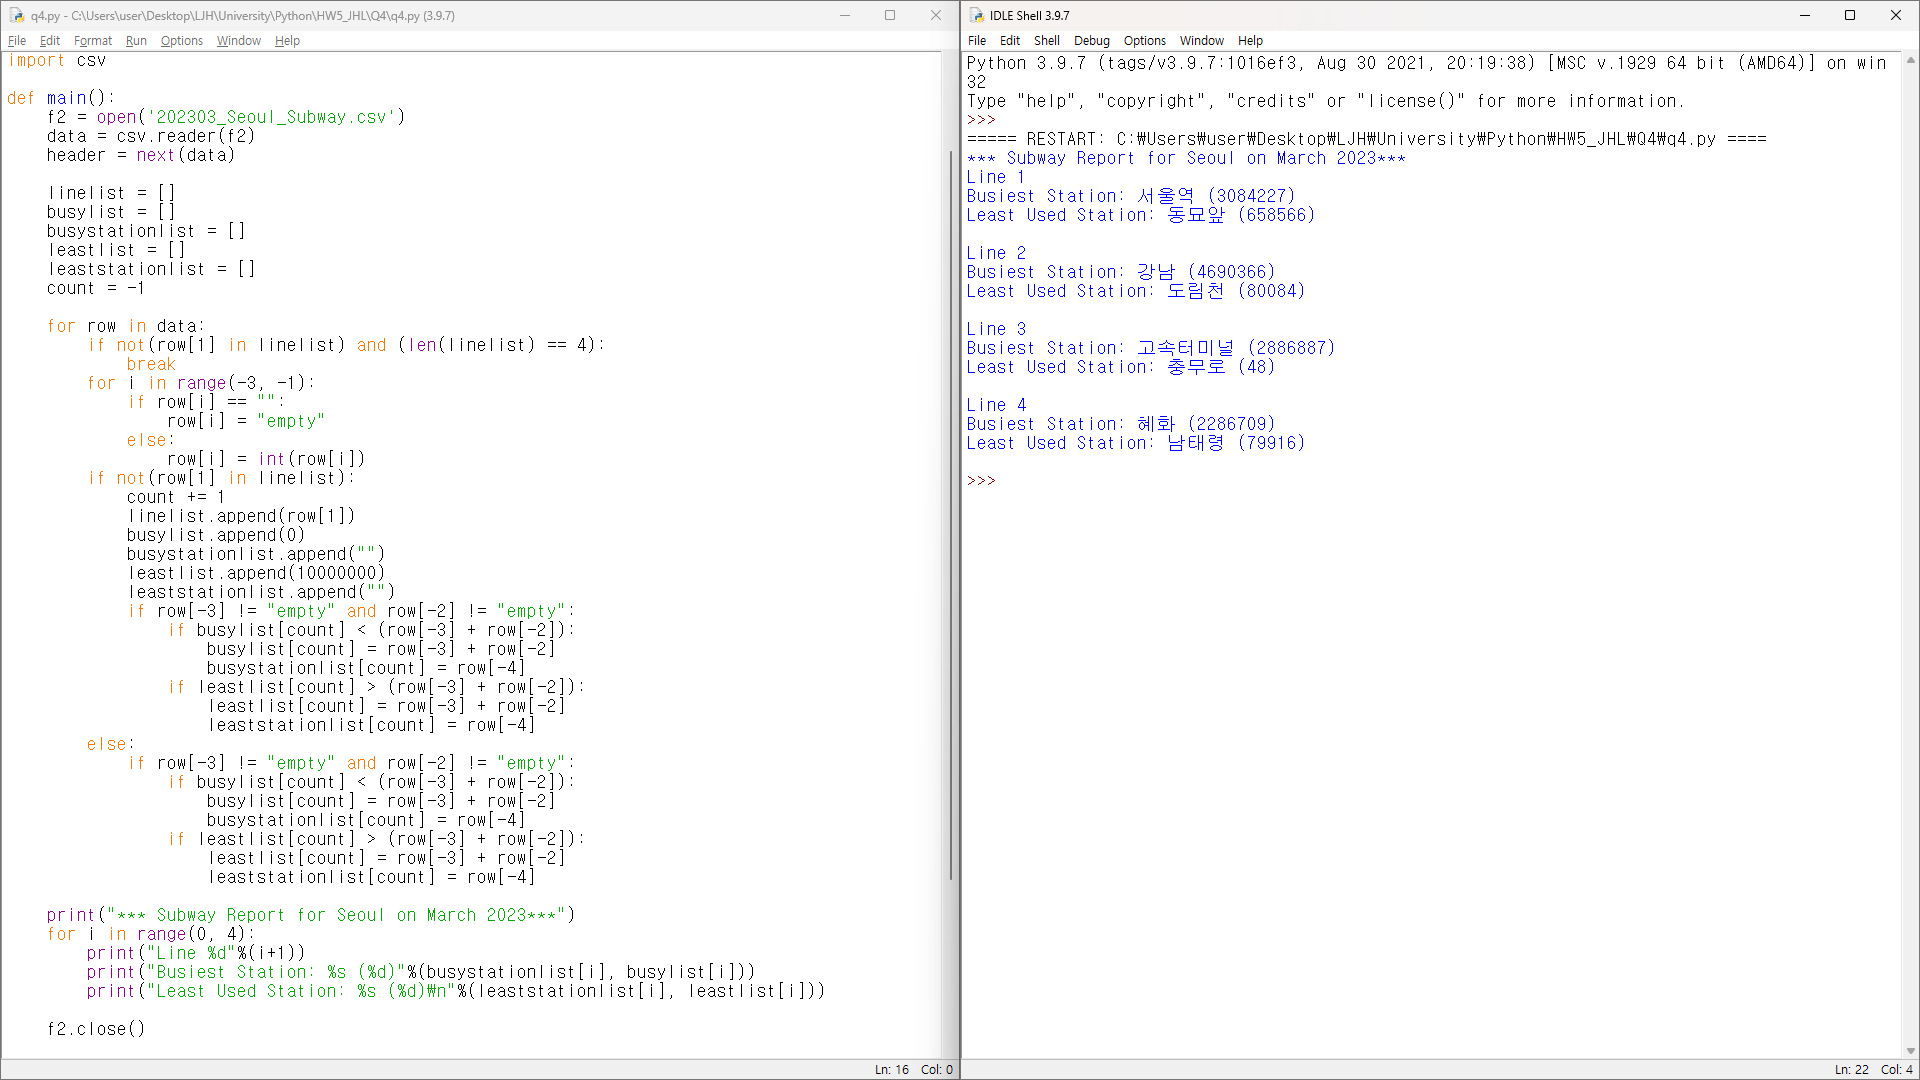
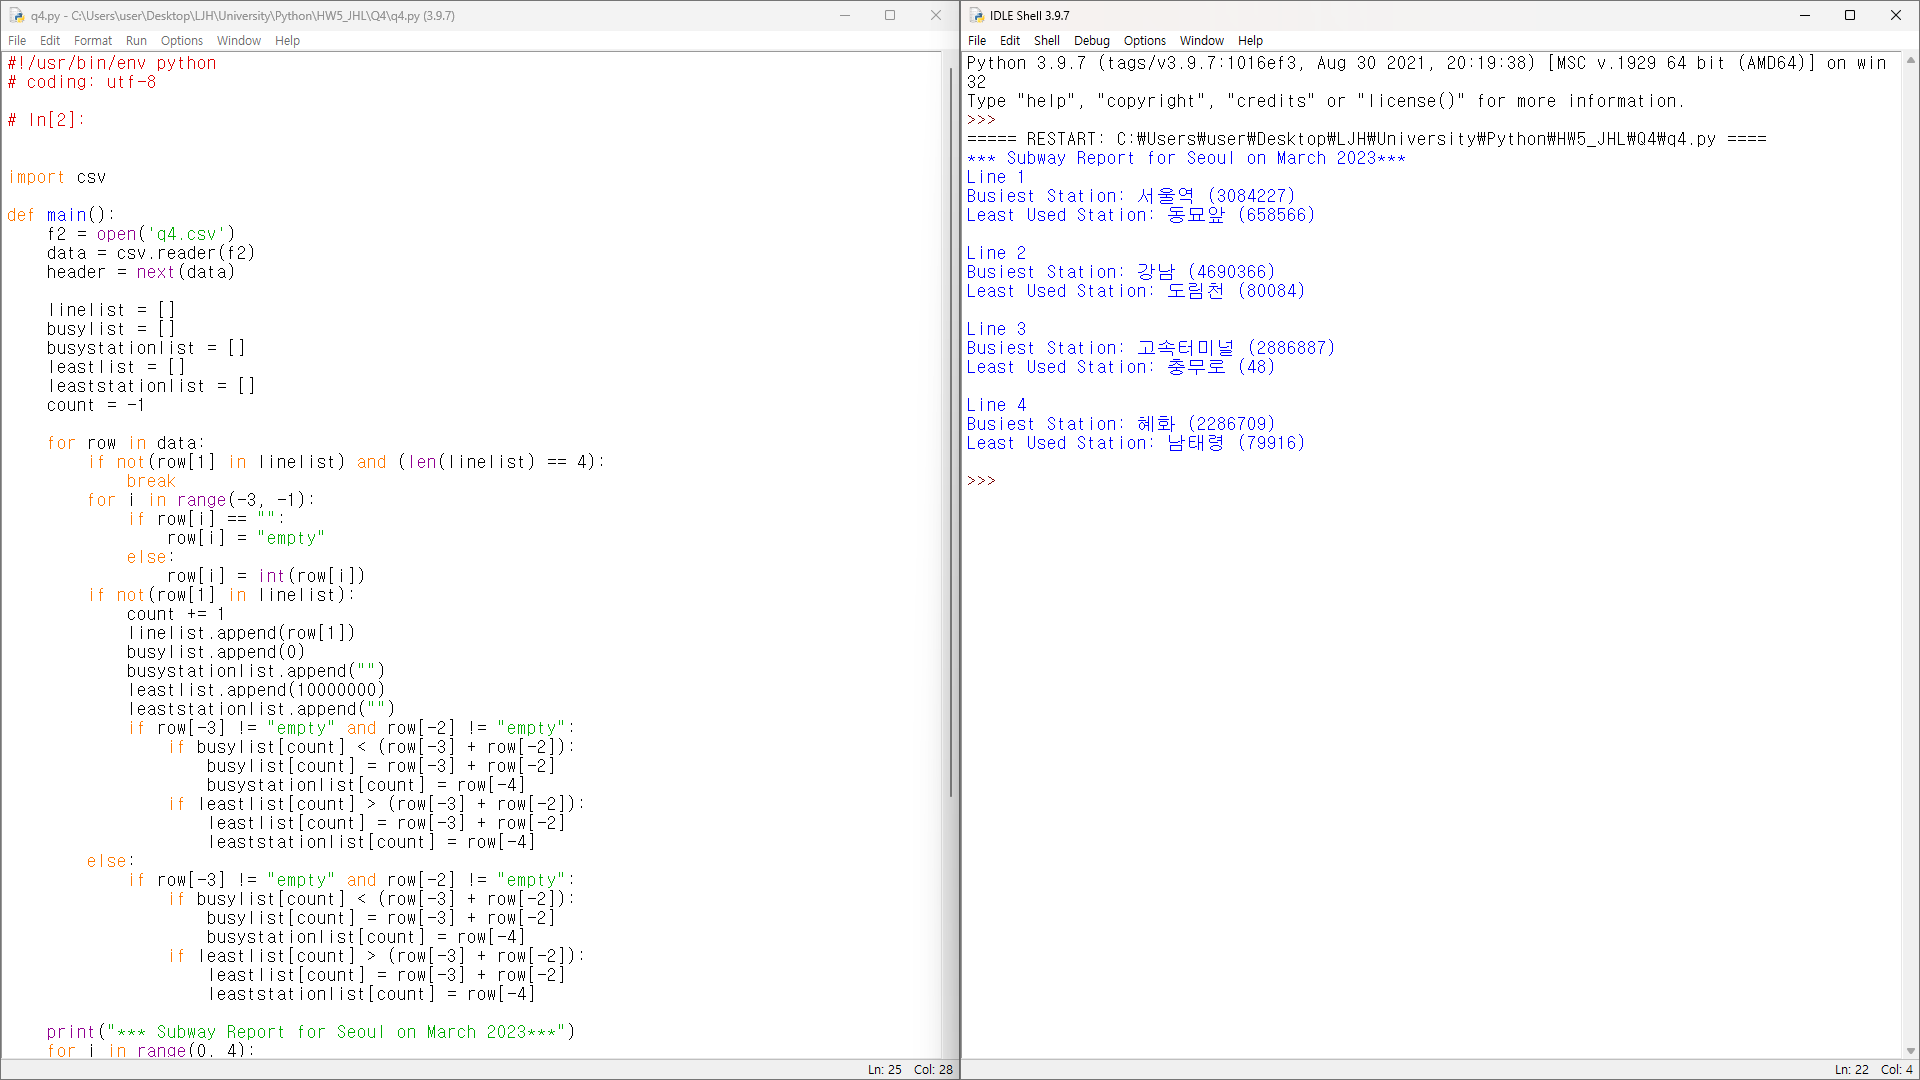
202011347 JooHyuckLee

diff --git a/Q3/q3.py b/Q3/q3.py
@@ -7,7 +7,7 @@
 import csv
 
 def main():
-    f2 = open('202303_Seoul_Subway.csv')
+    f2 = open('q3.csv')
     data = csv.reader(f2)
     header = next(data)
     

diff --git a/Q4/q4.py b/Q4/q4.py
@@ -7,7 +7,7 @@
 import csv
 
 def main():
-    f2 = open('202303_Seoul_Subway.csv')
+    f2 = open('q4.csv')
     data = csv.reader(f2)
     header = next(data)
     

diff --git a/Q1/q1.py b/Q1/q1.py
@@ -7,7 +7,7 @@
 import csv
 
 def main():
-    f1 = open('2022_Seoul_Temp.csv')
+    f1 = open('q1.csv')
     data = csv.reader(f1)
     header = next(data)
 

diff --git a/Q2/q2.py b/Q2/q2.py
@@ -7,7 +7,7 @@
 import csv
 
 def main():
-    f1 = open('2022_Seoul_Temp.csv')
+    f1 = open('q2.csv')
     data = csv.reader(f1)
     header = next(data)
 
